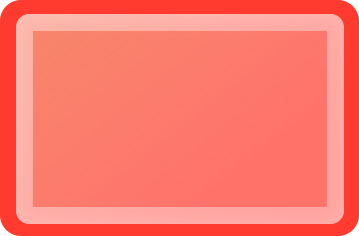
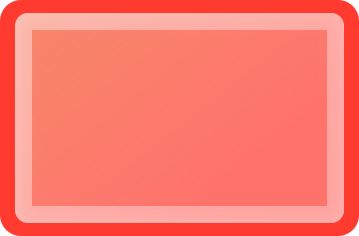
加spinning

diff --git a/src/pages/index.vue b/src/pages/index.vue
@@ -88,7 +88,7 @@
             <div
               :class="
                 `${canClick ? 'bg-[#fff]/[0]  cursor-pointer hover:bg-[#fff]/[0.3]  active:bg-[#000]/[0.4]' : 'bg-[#000]/[0.4] pointer-events-none'}`
-                  + ' absolute w-full h-full rounded-lg '
+                  + ' absolute w-full h-full rounded-[1em] '
               "
               @click="startInterval"
             />
@@ -116,6 +116,7 @@
 
 <script setup lang="ts">
 import { message } from 'ant-design-vue';
+import { useAppStore } from '../store/index';
 import Header from '@/components/TheHeader.vue';
 import { getDocStatus, startOrStopPrintTask } from '@/apis/webApi';
 import { throttle } from '@/utils/throttle.js';
@@ -126,14 +127,13 @@ import laser2Img from '@/assets/image/laser2.png';
 import lnkjetImg from '@/assets/image/lnkjet.png';
 
 defineOptions({ name: 'IndexPage' });
-
+const appStore = useAppStore();
 definePage({
   name: 'page-index',
   meta: {
     title: '首页',
   },
 });
-
 const [contextHolder] = message.useMessage();
 const imgStatus = [readyImg, defaultImg, laser1Img, laser2Img, lnkjetImg];
 const statusTypes = {
@@ -271,14 +271,14 @@ async function getStatus() {
           formatData.status === 'M6-Product'
           || formatData.status === 'M6-Obsolete'
         ) {
-          stopInterval();
+          await stopInterval();
         }
       }
       stoping.value = false;
     }
     catch (error) {
       error;
-      stopInterval();
+      await stopInterval();
       message.error('出错了，请联系管理员');
       stoping.value = true;
     }
@@ -327,19 +327,23 @@ function getModelStart(status: string) {
 
 //  开始任务
 async function startTask() {
+  // spinning.value = true;
+  appStore.setSpinning(true);
   imgIndex.value = 0;
   stoping.value = false;
   try {
     await startOrStopPrintTask({ operate: 1 });
     await startOrStopPrintTask({ operate: 0 });
+    appStore.setSpinning(false);
     return true;
   }
   catch (error) {
     error;
     await stopInterval();
     message.error('执行打印任务失败');
-    return false;
   }
+  appStore.setSpinning(false);
+  return false;
 }
 
 async function startInterval() {
@@ -401,7 +405,7 @@ function formatDateTime() {
 // const formatted = useDateFormat(useNow(), "HH:mm");
 </script>
 
-<style scoped>
+<style scoped lang="less">
 .bg {
   background-image: url('../assets/image/bg_dark.png');
   background-size: 100% 100%;

diff --git a/src/pages/Model/modalForm.vue b/src/pages/Model/modalForm.vue
@@ -105,8 +105,14 @@ import { reactive, ref, watch } from 'vue';
 import type { UnwrapRef } from 'vue';
 import type { Rule } from 'ant-design-vue/es/form';
 import { message } from 'ant-design-vue';
+import { useAppStore } from '../../store/index';
 import { getApiTransfer } from '@/apis/webApi';
 
+const props = defineProps({
+  currentModel: String,
+  optionsData: Object,
+});
+const appStore = useAppStore();
 interface FormState {
   transURI: string | undefined;
   paraIn?: string;
@@ -114,10 +120,6 @@ interface FormState {
 interface ReturnForm {
   respData: object;
 }
-const props = defineProps({
-  currentModel: String,
-  optionsData: Object,
-});
 const [contextHolder] = message.useMessage();
 const formRef = ref();
 const dataRef = ref();
@@ -139,6 +141,7 @@ function handleChange() {
 }
 
 function onSubmit() {
+  appStore.setSpinning(true);
   formRef.value
     .validate()
     .then(() => {
@@ -151,6 +154,7 @@ function onSubmit() {
     .catch((error: any) => {
       console.log('error', error);
     });
+  appStore.setSpinning(false);
 }
 async function getApiTransferTask(params: any) {
   try {
@@ -184,5 +188,12 @@ watch(
 }
 ::v-deep(.ant-descriptions-view) {
   background: #fff;
+}
+::v-deep(.ant-spin-spinning) {
+  position: absolute !important;
+  top: calc(50% - 300px) !important;
+  left: -100px !important;
+  z-index: 999999999999999999999;
+  // color: blue;
 }
 </style>

diff --git a/src/App.vue b/src/App.vue
@@ -1,12 +1,20 @@
 <script setup lang="ts">
 import { darkTheme, dateZhCN, zhCN } from 'naive-ui';
-import { watchEffect } from 'vue';
+import { h, watchEffect } from 'vue';
+import { LoadingOutlined } from '@ant-design/icons-vue';
 import { useAppStore } from './store';
 
 const appStore = useAppStore();
 
 watchEffect(() => {
   appStore.setThemeColor(appStore.primaryColor, appStore.isDark);
+});
+
+const indicator = h(LoadingOutlined, {
+  style: {
+    fontSize: '200px',
+  },
+  spin: true,
 });
 </script>
 
@@ -18,10 +26,22 @@ watchEffect(() => {
     :theme="appStore.isDark ? darkTheme : undefined"
     :theme-overrides="appStore.naiveThemeOverrides"
   >
-    <router-view v-slot="{ Component, route: curRoute }">
-      <KeepAlive>
-        <component :is="Component" :key="curRoute.fullPath" />
-      </KeepAlive>
-    </router-view>
+    <a-spin :spinning="appStore.spinning" :indicator="indicator" delay="1000">
+      <router-view v-slot="{ Component, route: curRoute }">
+        <KeepAlive>
+          <component :is="Component" :key="curRoute.fullPath" />
+        </KeepAlive>
+      </router-view>
+    </a-spin>
   </n-config-provider>
 </template>
+
+<style scoped lang="less">
+::v-deep(.ant-spin-spinning) {
+  position: absolute !important;
+  top: calc(50% - 300px) !important;
+  left: -100px !important;
+  z-index: 999999999999999999999;
+  // color: blue;
+}
+</style>

diff --git a/src/pages/Model/indexPage.vue b/src/pages/Model/indexPage.vue
@@ -61,7 +61,7 @@ function getarrJson(model: string) {
   const json = {
     m1: {
       transURI: ['send-doc', 'get-doc-status'],
-      paraIn: ['M1-Ready', 'M1-Camera'],
+      paraIn: ['M1-Ready', 'M1-Camera', 'M1-Warehouse'],
     },
     m2: {
       transURI: ['send-doc', 'get-doc-status'],
@@ -85,7 +85,9 @@ function getarrJson(model: string) {
         'M3-Laser-1',
         'M3-Laser-2',
         'M3-Laser-3',
-        'M3-UV',
+        'M3-UV-1',
+        'M3-UV-2',
+        'M3-UV-3',
         'M3-Camera',
       ],
     },
@@ -99,7 +101,9 @@ function getarrJson(model: string) {
         'M5-Reader-1',
         'M5-Reader-2',
         'M5-Reader-3',
-        'M5-UV',
+        'M5-UV-1',
+        'M5-UV-2',
+        'M5-UV-3',
         'M5-Camera',
       ],
     },

diff --git a/src/store/modules/app.ts b/src/store/modules/app.ts
@@ -8,6 +8,7 @@ export const useAppStore = defineStore('app', {
     collapsed: false,
     isDark: useDark(),
     layout: defaultLayout,
+    spinning: false,
     primaryColor: defaultPrimaryColor,
     naiveThemeOverrides,
   }),
@@ -17,6 +18,9 @@ export const useAppStore = defineStore('app', {
     },
     setCollapsed(b: boolean) {
       this.collapsed = b;
+    },
+    setSpinning(b: boolean) {
+      this.spinning = b;
     },
     toggleDark() {
       this.isDark = !this.isDark;
